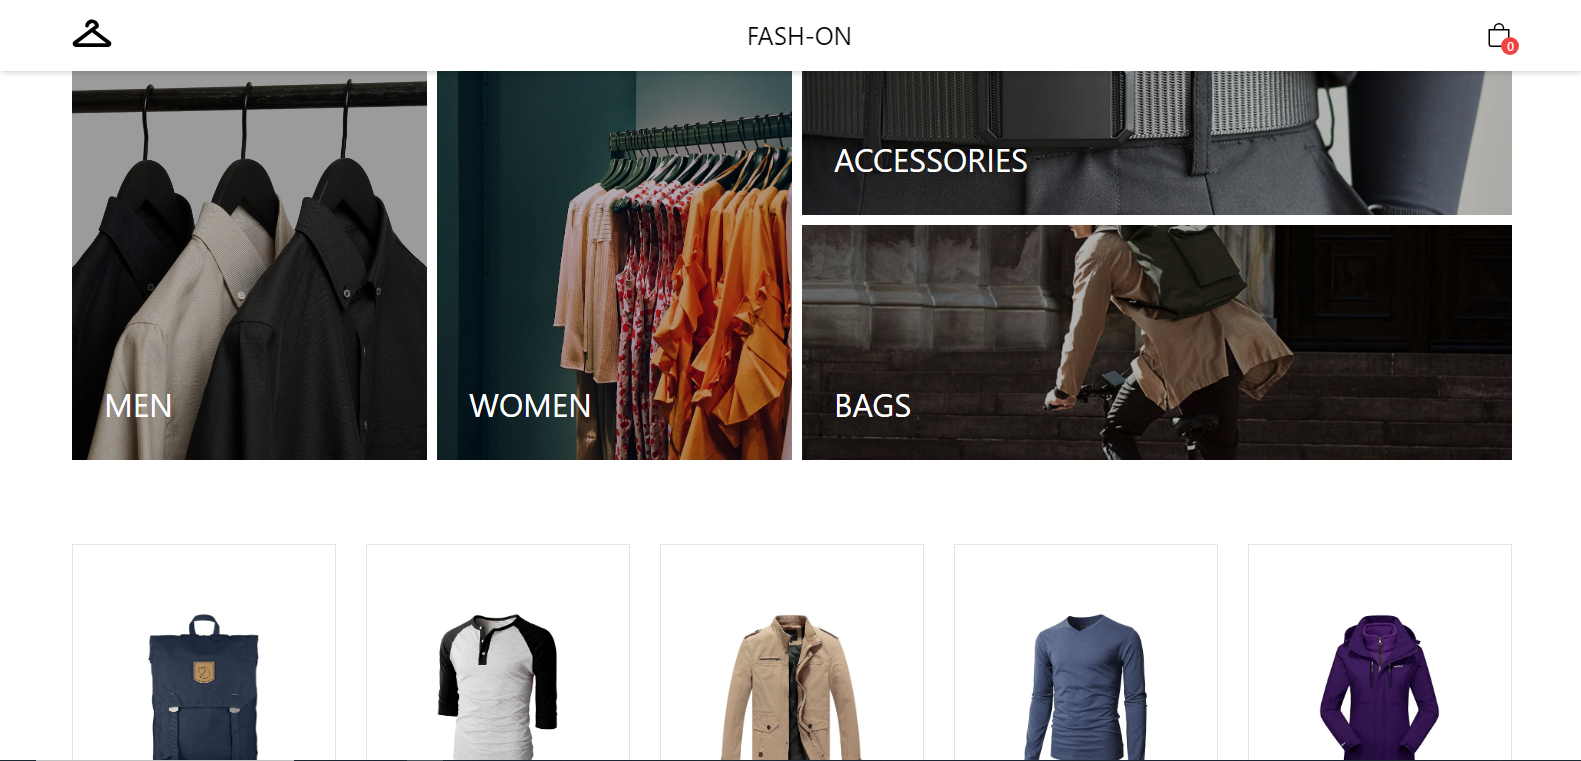
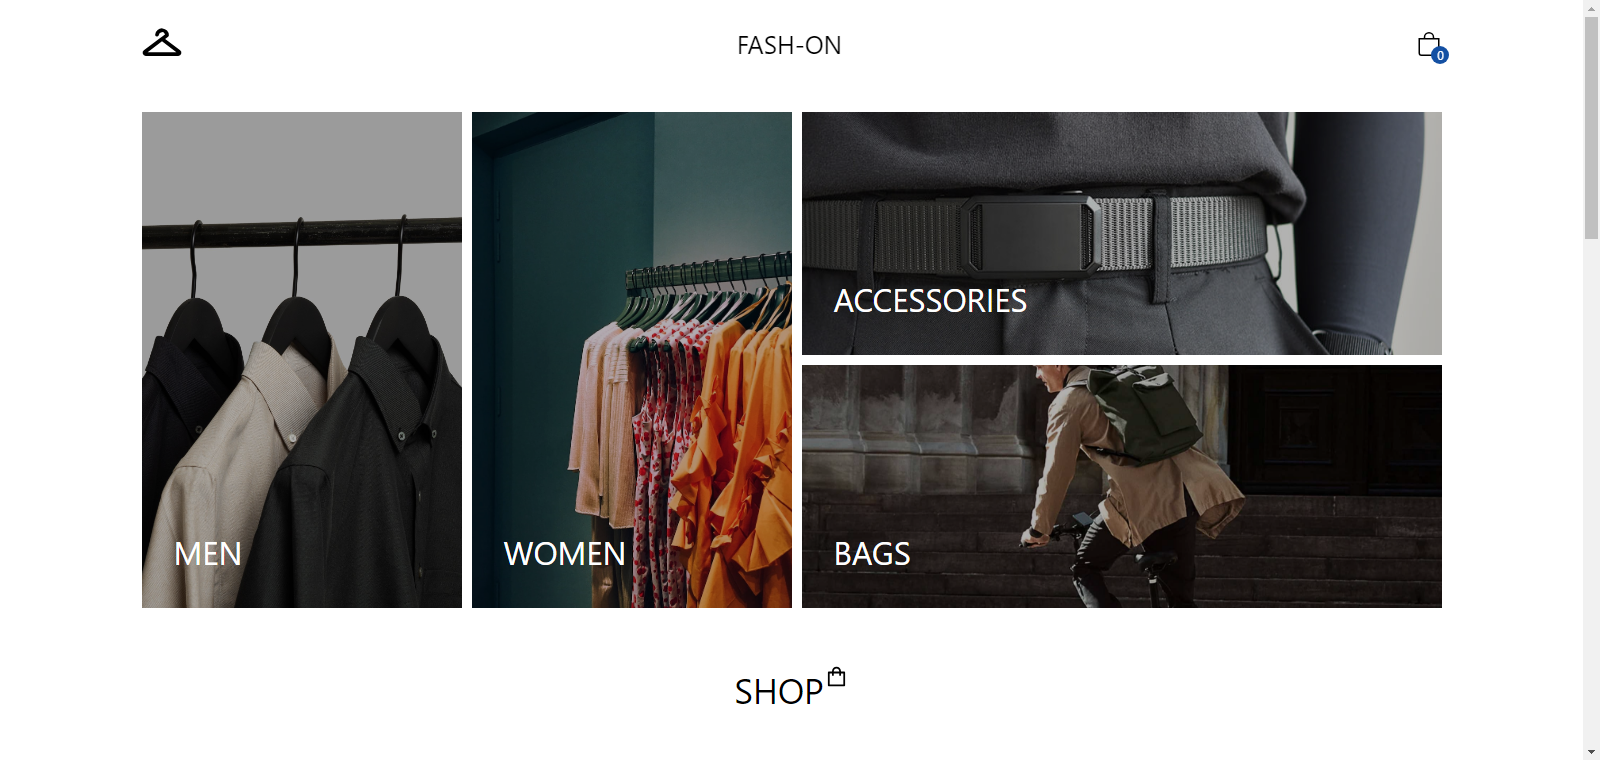
added functionality for hero section

diff --git a/src/pages/Home.jsx b/src/pages/Home.jsx
@@ -17,22 +17,23 @@ const Home = () => {
   const { products } = useContext(ProductContext)
   // get only men's & women's clothing category
   const filteredProducts = products.filter(item => {
-    return item.category === "men's clothing" || item.category === "women's clothing"
+    return item.category === "men's clothing" || item.category === "women's clothing" || item.category === "jewelery"
   })
+
   return <div>
     <Hero />
-    <section className='md:px-[30px] max-md:px-[30px]'>
-      <div className='text-[35px] flex justify-center mb-[2rem]'>
-        SHOP<AiOutlineShopping className='text-[25px]' />
-      </div>
-        <div className='container mx-auto'>
-          <div className='grid grid-cols-1 md:grid-cols-2 lg:grid-cols-4 xl:grid-cols-5 gap-[30px] max-w-sm mx-auto md:max-w-none md:mx-0'>
-            {filteredProducts.map(product => {
-              return <Product product={product} key={product.id} />
-            })}
-          </div>
+      <section className='md:px-[30px] max-md:px-[30px]'>
+        <div className='text-[35px] flex justify-center mb-[2rem]'>
+          SHOP<AiOutlineShopping className='text-[25px]' />
         </div>
-    </section>
+          <div className='container mx-auto'>
+            <div className='grid grid-cols-1 md:grid-cols-2 lg:grid-cols-4 xl:grid-cols-5 gap-[30px] max-w-sm mx-auto md:max-w-none md:mx-0'>
+              {filteredProducts.map(product => {
+                return <Product product={product} key={product.id} />
+              })}
+            </div>
+          </div>
+      </section>
     <Banner />
   </div>
 }

diff --git a/src/components/Hero.jsx b/src/components/Hero.jsx
@@ -12,28 +12,28 @@ function Hero() {
         <div className="container">
           <div className="grid-container">
             <div className="featured grid-one">
-              <Link to="">
+              <Link to="/men">
                 <div id="img1" className="lil-overlay"></div>
                 <img src={Main1} alt="img1" />
                 <p className="main-description">MEN</p>
               </Link>
             </div>
             <div className="featured grid-two">
-              <Link to="">
+              <Link to="/women">
                 <div id="img2" className="lil-overlay"></div>
                 <img src={Main2} alt="img2" />
                 <p className="main-description">WOMEN</p>
               </Link>
             </div>
             <div className="featured grid-four">
-              <Link to="">
+              <Link to="/accessories">
                 <div id="img3" className="lil-overlay"></div>
                 <img src={Main3} alt="img3" />
                 <p className="main-description">ACCESSORIES</p>
               </Link>
             </div>
             <div className="featured grid-four-low">
-              <Link to="">
+              <Link to="/bags">
                 <div id="img4" className="lil-overlay"></div>
                 <img src={Main4} alt="img4" />
                 <p className="main-description">BAGS</p>

diff --git a/src/pages/Accessories.jsx b/src/pages/Accessories.jsx
@@ -1,0 +1,38 @@
+import React, { useContext } from 'react'
+
+// import product context
+import { ProductContext } from '../contexts/ProductContext'
+
+// import components
+import Product from '../components/Product'
+
+// import icons
+
+
+const Accessories = () => {
+  // get products from product context
+  const { products } = useContext(ProductContext)
+  // get only men's & women's clothing category
+  const filteredProducts = products.filter(item => {
+    return item.category === "jewelery"
+  })
+
+  return (
+      <div>
+          <section className='md:px-[30px] max-md:px-[30px] py-[8rem]'>
+            <div className='text-[35px] flex justify-center mb-[2rem] items-center'>
+              ACCESSORIES
+            </div>
+              <div className='container mx-auto'>
+                <div className='grid grid-cols-1 md:grid-cols-2 lg:grid-cols-4 xl:grid-cols-5 gap-[30px] max-w-sm mx-auto md:max-w-none md:mx-0'>
+                  {filteredProducts.map(product => {
+                    return <Product product={product} key={product.id} />
+                  })}
+                </div>
+              </div>
+          </section>
+      </div>
+  )
+}
+
+export default Accessories

diff --git a/src/pages/Women.jsx b/src/pages/Women.jsx
@@ -1,0 +1,37 @@
+import React, { useContext } from 'react'
+
+// import product context
+import { ProductContext } from '../contexts/ProductContext'
+
+// import components
+import Product from '../components/Product'
+
+// import icons
+
+
+const Women = () => {
+  // get products from product context
+  const { products } = useContext(ProductContext)
+  // get only men's & women's clothing category
+  const filteredProducts = products.filter(item => {
+    return item.category === "women's clothing"
+  })
+  return (
+      <div>
+          <section className='md:px-[30px] max-md:px-[30px] py-[8rem]'>
+            <div className='text-[35px] flex justify-center mb-[2rem] items-center'>
+              WOMEN
+            </div>
+              <div className='container mx-auto'>
+                <div className='grid grid-cols-1 md:grid-cols-2 lg:grid-cols-4 xl:grid-cols-5 gap-[30px] max-w-sm mx-auto md:max-w-none md:mx-0'>
+                  {filteredProducts.map(product => {
+                    return <Product product={product} key={product.id} />
+                  })}
+                </div>
+              </div>
+          </section>
+      </div>
+  )
+}
+
+export default Women

diff --git a/src/pages/Men.jsx b/src/pages/Men.jsx
@@ -1,0 +1,38 @@
+import React, { useContext } from 'react'
+
+// import product context
+import { ProductContext } from '../contexts/ProductContext'
+
+// import components
+import Product from '../components/Product'
+
+// import icons
+
+
+const Men = () => {
+  // get products from product context
+  const { products } = useContext(ProductContext)
+  // get only men's & women's clothing category
+  const filteredProducts = products.filter(item => {
+    return item.category === "men's clothing"
+  })
+
+  return (
+      <div>
+          <section className='md:px-[30px] max-md:px-[30px] py-[8rem]'>
+            <div className='text-[35px] flex justify-center mb-[2rem] items-center'>
+              MEN
+            </div>
+              <div className='container mx-auto'>
+                <div className='grid grid-cols-1 md:grid-cols-2 lg:grid-cols-4 xl:grid-cols-5 gap-[30px] max-w-sm mx-auto md:max-w-none md:mx-0'>
+                  {filteredProducts.map(product => {
+                    return <Product product={product} key={product.id} />
+                  })}
+                </div>
+              </div>
+          </section>
+      </div>
+  )
+}
+
+export default Men

diff --git a/src/pages/Bags.jsx b/src/pages/Bags.jsx
@@ -1,0 +1,38 @@
+import React, { useContext } from 'react'
+
+// import product context
+import { ProductContext } from '../contexts/ProductContext'
+
+// import components
+import Product from '../components/Product'
+
+// import icons
+
+
+const Bags = () => {
+  // get products from product context
+  const { products } = useContext(ProductContext)
+  // get only men's & women's clothing category
+  const filteredProducts = products.filter(item => {
+    return item.price === 109.95
+  })
+
+  return (
+      <div>
+          <section className='md:px-[30px] max-md:px-[30px] py-[8rem]'>
+            <div className='text-[35px] flex justify-center mb-[2rem] items-center'>
+              BAGS
+            </div>
+              <div className='container mx-auto'>
+                <div className='grid grid-cols-1 md:grid-cols-2 lg:grid-cols-4 xl:grid-cols-5 gap-[30px] max-w-sm mx-auto md:max-w-none md:mx-0'>
+                  {filteredProducts.map(product => {
+                    return <Product product={product} key={product.id} />
+                  })}
+                </div>
+              </div>
+          </section>
+      </div>
+  )
+}
+
+export default Bags

diff --git a/src/App.js b/src/App.js
@@ -11,6 +11,10 @@ import ProductDetails from './pages/ProductDetails.jsx'
 import Sidebar from './components/Sidebar'
 import Header from './components/Header'
 import Footer from './components/Footer'
+import Women from "./pages/Women";
+import Men from "./pages/Men";
+import Accessories from "./pages/Accessories";
+import Bags from "./pages/Bags";
 
 
 function App() {
@@ -21,6 +25,10 @@ function App() {
         <Routes>
           <Route path="/*" element={<Home />} />
           <Route path="/product/:id" element={<ProductDetails />} />
+          <Route path="/women" element={<Women />} />
+          <Route path="/men" element={<Men />} />
+          <Route path="/accessories" element={<Accessories />} />
+          <Route path="/bags" element={<Bags />} />
         </Routes>
         <Sidebar />
         <Footer />

diff --git a/src/index.js b/src/index.js
@@ -2,6 +2,7 @@ import React from 'react';
 import ReactDOM from 'react-dom/client';
 import './index.css';
 import App from './App';
+import Women from './pages/Women';
 
 // product provider
 import ProductProvider from './contexts/ProductContext';
@@ -10,13 +11,14 @@ import SidebarProvider from './contexts/SidebarContext'
 // cart provider
 import CartProvider from './contexts/CartContext';
 
+
 const root = ReactDOM.createRoot(document.getElementById('root'));
 root.render(
   <React.StrictMode>
   <SidebarProvider>
     <CartProvider>
       <ProductProvider>
-          <App />
+        <App/>
       </ProductProvider>
     </CartProvider>
   </SidebarProvider>

diff --git a/src/components/Sidebar.jsx b/src/components/Sidebar.jsx
@@ -37,8 +37,8 @@ const Sidebar = () => {
             <FiTrash2 />
           </div>
         </div>
-        <Link to={'/'} className='bg-gray-200 flex p-4 justify-center items-center text-primary w-full font-medium'>View cart</Link>
-        <Link to={'/'} className='bg-primary flex p-4 justify-center items-center text-white w-full font-medium'>Checkout</Link>
+        <Link to={'/'} className='bg-gray-200 flex p-3 justify-center items-center text-primary w-full font-medium'>View cart</Link>
+        <Link to={'/'} className='bg-primary flex p-3 justify-center items-center text-white w-full font-medium'>Checkout</Link>
       </div>
   </div>
 

diff --git a/src/components/Header.jsx b/src/components/Header.jsx
@@ -30,7 +30,7 @@ const Header = () => {
               <PiCoatHangerBold className='text-[40px]' />
             </div>
         </Link>
-        <div className='text-[25px] ml-[-20px]'>FASH-ON</div>
+        <Link to={'/'} className='text-[25px] ml-[-20px] border-b-4 border-[#1450A3]'>FASH-ON</Link>
         {/* cart */}
         <div onClick={() => setIsOpen(!isOpen)} className='cursor-pointer flex relative'>
           <BsBag className='text-2xl' />

diff --git a/src/contexts/ProductContext.jsx b/src/contexts/ProductContext.jsx
@@ -15,6 +15,7 @@ const ProductProvider = ({ children }) => {
     }
     fetchProducts()
   },[])
+
   return <ProductContext.Provider value={{products}}>{children}</ProductContext.Provider>
 }
 
